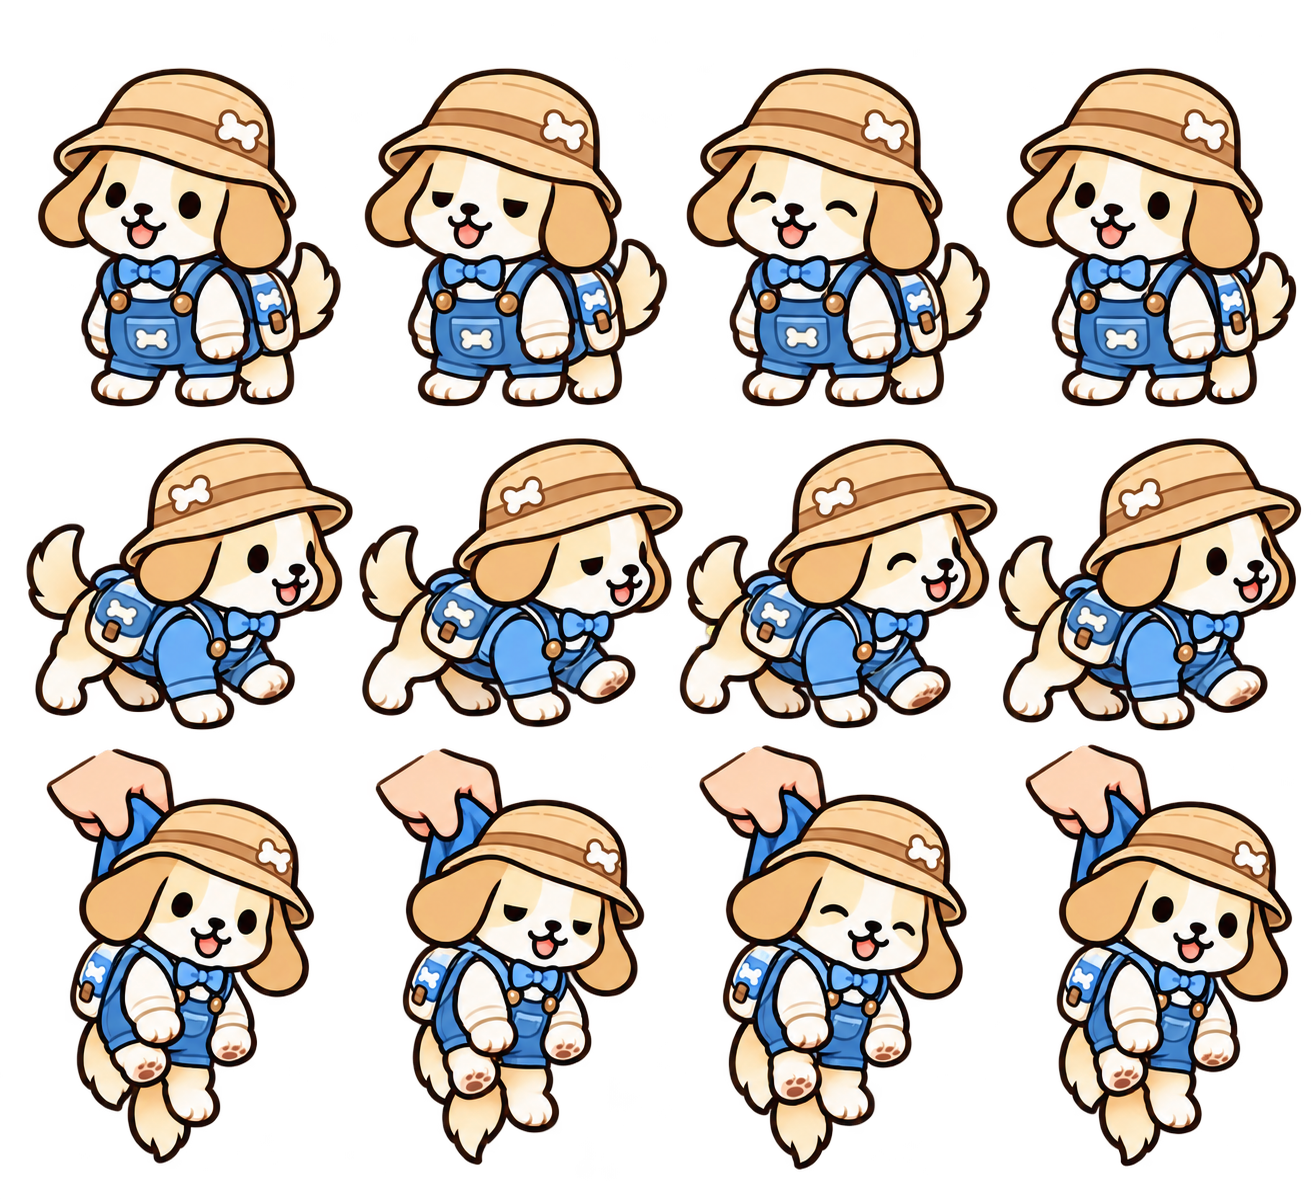
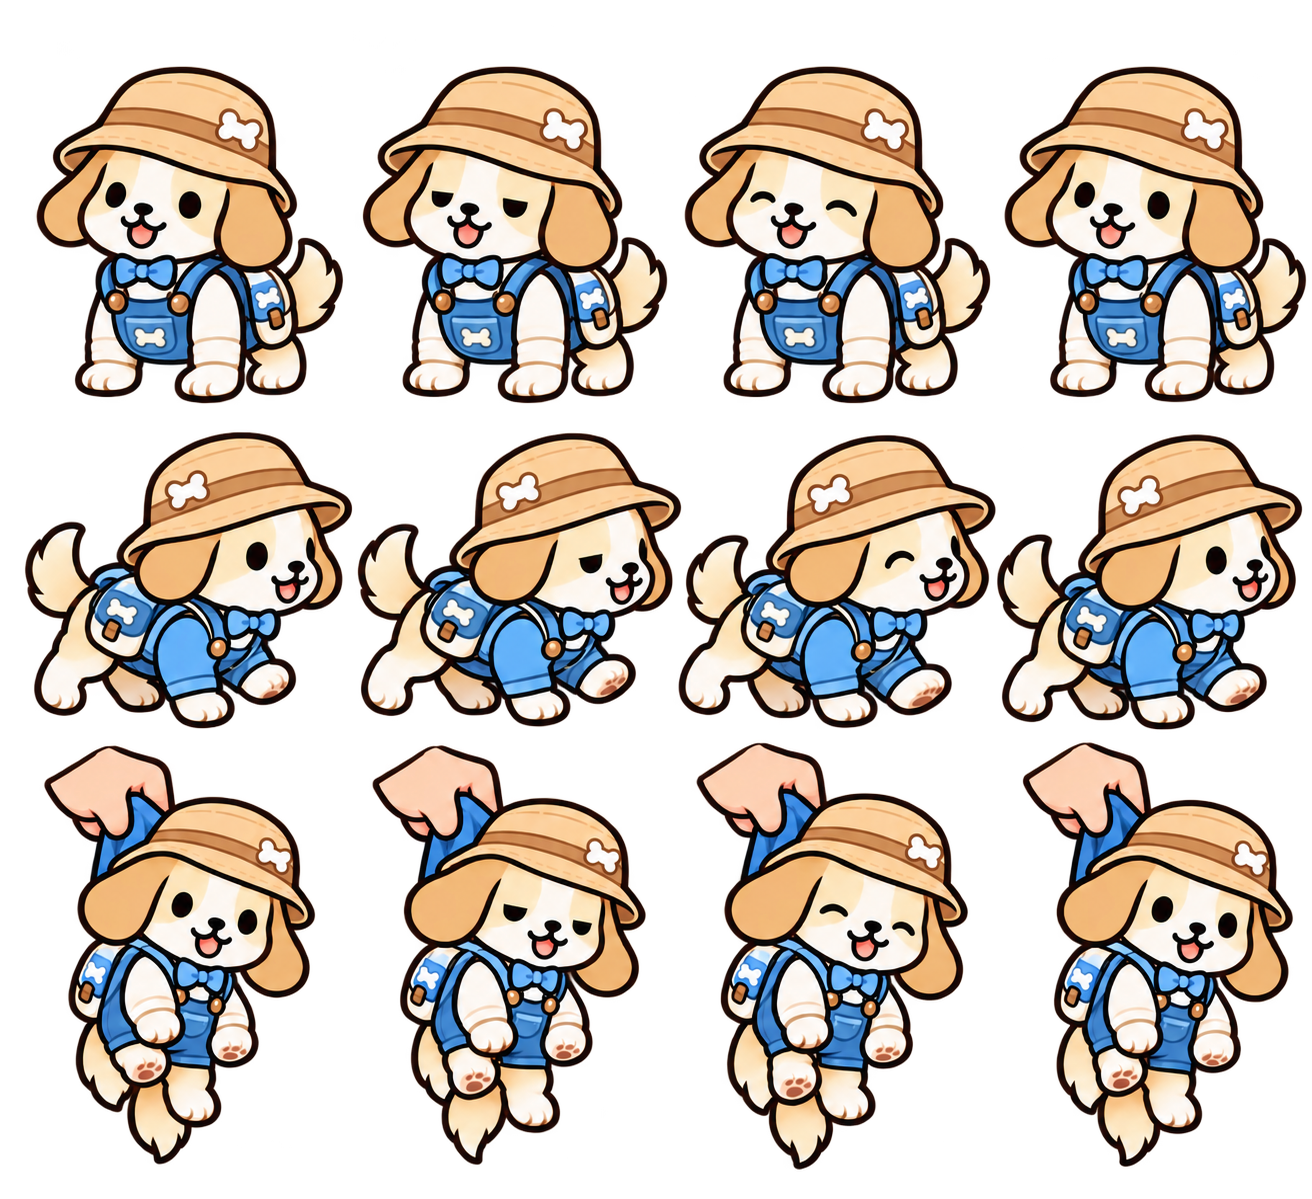
Correct extra limbs in dog explorer outfit idle frames

diff --git a/web/src/components/OutfitFrames.vue b/web/src/components/OutfitFrames.vue
@@ -12,7 +12,7 @@ const duration=computed(()=>pose.value==='walk'?`${({dog:1.2,tortoise:2.4,hedgeh
   <span class="outfit-frames" :class="[pose,{resting,still}]" :style="{'--duration':duration}" role="img" :aria-label="label">
     <svg v-for="(viewport,i) in frames" :key="`${outfit}-${pose}-${i}`" class="frame" :class="`frame-${i}`" :viewBox="viewport" :style="{animationDelay:`calc(var(--duration) * ${i?(i-4)/4:0})`}" aria-hidden="true">
       <defs><clipPath :id="`${id}-${i}`"><rect v-bind="layout.bounds[pose][i]" /></clipPath></defs>
-      <image :href="`/pets/outfits-v1/${outfit}.webp`" :width="layout.width" :height="layout.height" :clip-path="`url(#${id}-${i})`" />
+      <image :href="`/pets/outfits-v1/${outfit}.webp?v=${layout.sourceHash.slice(0,12)}`" :width="layout.width" :height="layout.height" :clip-path="`url(#${id}-${i})`" />
     </svg>
   </span>
 </template>
